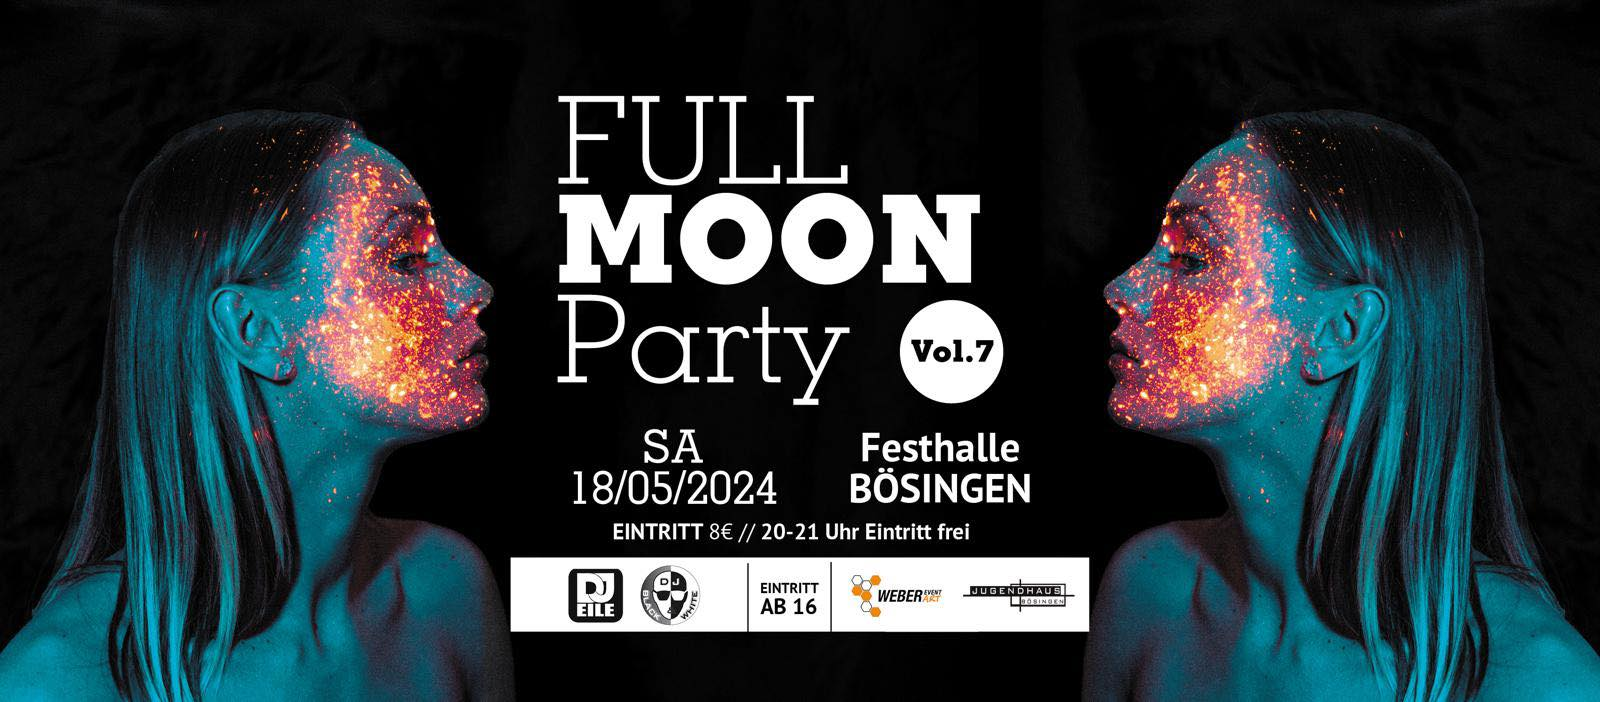
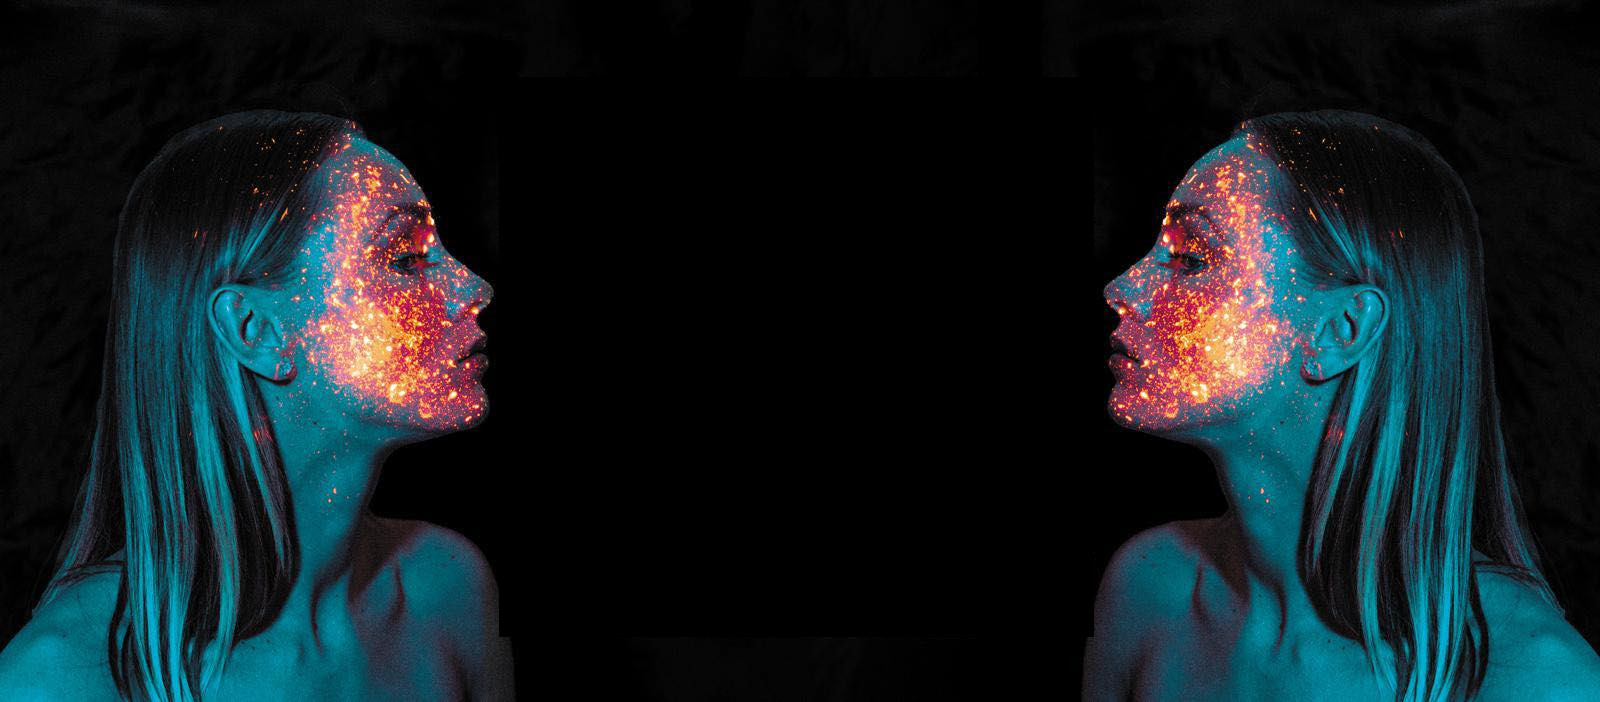
CSS optimization

diff --git a/themes/hugo-theme-cleanwhite/layouts/_default/single.html b/themes/hugo-theme-cleanwhite/layouts/_default/single.html
@@ -22,7 +22,6 @@
 							{{ end }}
 						</div>
 						<h1>{{ .Title }}</h1>
-						<h2 class="subheading">{{ .Params.subtitle }}</h2>
 						<span class="meta">
 							{{ if .Params.metadata }}
 							{{ range $index, $element := .Params.metadata }}
@@ -36,7 +35,7 @@
 
 							{{ .Date | dateFormat "02.01.2006" }}
 							{{ if .Params.organizer }}
-							| Veranstalter: {{ .Params.organizer }}
+							| {{ .Params.organizer }}
 							{{ else }}
 							| {{ .Site.Title }}
 							{{ end }}
@@ -74,29 +73,34 @@
 
 
 				{{ if or (.PrevInSection) (.NextInSection) }}
-				<hr>
 				<ul class="pager">
 					{{ if .PrevInSection }}
 					<li class="previous">
 						<a href="{{ .PrevInSection.RelPermalink }}" data-toggle="tooltip" data-placement="top"
 						title="{{ .PrevInSection.Title}}">&larr;
-						vorheriger Termin</a>
+						vorheriger</a>
 					</li>
 					{{ end }}
 					{{ if .NextInSection }}
 					<li class="next">
 						<a href="{{ .NextInSection.RelPermalink }}" data-toggle="tooltip" data-placement="top"
 						title="{{ .NextInSection.Title}}">nächster
-						Termin &rarr;</a>
+						&rarr;</a>
 					</li>
 					{{ end }}
 				</ul>
 				{{ end }}
+				<hr>
 
 
 
 					{{/* Event */}}
 					<h2 class="post-title" itemprop="name">{{ .Title }}</h2>
+					{{with .Params.subtitle }}
+						<h3 class="post-subtitle">
+							{{ . }}
+						</h3>
+					{{ end }}
 
 					{{/* … innerhalb Deines post_list.html … */}}
 					<time itemprop="startDate" datetime="{{ .Date.Format " 2006-01-02T15:04:05Z07:00" }}">
@@ -131,33 +135,10 @@
 
 					{{/* Ort, wenn Du ihn in Front-Matter pflegst */}}
 					{{ with .Params.location }}
-					<div itemprop="location" itemscope itemtype="http://schema.org/Place">
-						<span itemprop="name">{{ . }}</span>
-					</div>
+						<div itemprop="location" itemscope itemtype="http://schema.org/Place">
+							<span itemprop="name">{{ . }}</span>
+						</div>
 					{{ end }}
-
-					<div class="post-container flex-preview" itemprop="description">
-						{{/* Textbeschreibung */}}
-						<div class="post-image">
-							{{/* Bild als Event-Image, falls vorhanden */}}
-							{{ with .Params.featured_image }}
-							<img itemprop="image" class="featured-image" src="{{ . | relURL }}" alt="{{ $.Title }}"
-								loading="lazy">
-							{{ end }}
-						</div>
-
-						{{/* Textbeschreibung */}}
-						<div class="post-text">
-							{{ with .Description }}
-							{{ . }}
-							{{ else }}
-							{{ .Content }} …
-							{{ end }}
-						</div>
-					</div>
-
-
-
 					{{/* Veranstalter / Organizer */}}
 					{{ with .Params.organizer }}
 					<div itemprop="organizer" itemscope itemtype="http://schema.org/Organization">
@@ -165,6 +146,34 @@
 						Veranstalter: {{ . }}
 					</div>
 					{{ end }}
+
+					<div class="post-container flex-preview" itemprop="description">
+						{{/* Bild */}}
+						<div class="post-image">
+							{{/* Bild als Event-Image, falls vorhanden */}}
+							{{ with .Params.featured_image }}
+								<link rel="stylesheet" href="/css/hugo-easy-gallery.css" />
+								<div class="box" >
+								<figure class="media-figure" itemprop="associatedMedia" itemscope itemtype="http://schema.org/ImageObject">
+									<div class="img">
+										<img itemprop="image" class="featured-image" src="{{ . | relURL }}" alt="{{ $.Title }}" loading="lazy">
+									</div>
+									<a href="{{ . | relURL }}" itemprop="contentUrl"></a>
+								</figure>
+								</div>
+							{{ end }}
+						</div>
+						{{/* Textbeschreibung */}}
+						<div class="post-text">
+							{{ with .Description }}
+							{{ . }}
+							{{ else }}
+							{{ .Content }}
+							{{ end }}
+						</div>
+					</div>
+
+
 
 
 					{{ if or (.PrevInSection) (.NextInSection) }}

diff --git a/themes/hugo-theme-cleanwhite/layouts/partials/post_list.html b/themes/hugo-theme-cleanwhite/layouts/partials/post_list.html
@@ -20,6 +20,11 @@
 		{{/* Link zum Event */}}
 		<a href="{{ .Permalink }}" itemprop="url">
 			<h2 class="post-title" itemprop="name">{{ .Title }}</h2>
+			{{with .Params.subtitle }}
+				<h3 class="post-subtitle">
+					{{ . }}
+				</h3>
+			{{ end }}
 
 			{{/* … innerhalb Deines post_list.html … */}}
 			<time itemprop="startDate"
@@ -63,7 +68,7 @@
 		<div class="post-content-preview flex-preview" itemprop="description">
 			{{/* Bild als Event-Image, falls vorhanden */}}
 			{{ with .Params.featured_image }}
-			<img itemprop="image" class="featured-thumb" src="{{ . | relURL }}" alt="{{ $.Title }}" loading="lazy">
+				<img itemprop="image" class="featured-thumb" src="{{ . | relURL }}" alt="{{ $.Title }}" loading="lazy">
 			{{ end }}
 
 			{{/* Textbeschreibung */}}

diff --git a/themes/hugo-theme-cleanwhite/static/css/custom.css b/themes/hugo-theme-cleanwhite/static/css/custom.css
@@ -3319,9 +3319,9 @@ root{ --space-s:0.75rem; --space-m:1.5rem; --space-l:3rem; }
 
   .post-container img{
     display:block;
-    max-width:50% !important;;
+    max-width:80% !important;;
     height:auto;
-    margin:1.5em auto 1.6em auto
+    margin:1.5em auto 1.6em 0
 }
 
 
@@ -3358,4 +3358,12 @@ flex: 1 1 100%; /* Standardmäßig 100% Breite */
 	.post-container.flex-preview > * {
 		flex: 1 1 48%; /* Ab 768px: Container nebeneinander mit 48% Breite */
 	}
+}
+
+
+.intro-header h1 {
+	white-space: nowrap;
+	overflow: hidden;
+	text-overflow: ellipsis;
+	max-width: 100%;
 }

diff --git a/content/post/20250524_fullmoon2025.md b/content/post/20250524_fullmoon2025.md
@@ -7,12 +7,13 @@ date:  			2025-05-24
 location:		"Mehrzweckhalle Bösingen"
 organizer:      "Jugendhaus Bösingen"
 image:       	"/img/fullmoon-hero.jpg"
-featured_image: "/img/fullmoon-hero.jpg"
+featured_image: "/img/fullmoon-plakat.jpg"
 ---
 
 Es ist wieder soweit - am 14.05 geht unsere Full-Moon Party in die achte Runde!
 
 In der Bösinger Halle haben wir wieder einzigartige Specials für euch vorbereitet, die euch direkt an den thailändischen Strand zaubern. Tanzt mit uns durch das Paradies und lasst euch, wie den Rest der Halle durch Schwarzlicht und grelle Neonfarben zum Leuchten bringen!
 
-![FULL MOON Party 2024](https://scontent-fra3-1.xx.fbcdn.net/v/t39.30808-6/486575492_1075736257915112_4017841889120349136_n.jpg?stp=dst-jpg_s960x960_tt6&_nc_cat=108&ccb=1-7&_nc_sid=cc71e4&_nc_ohc=FLUqzN4OhSgQ7kNvwEwJ5Mq&_nc_oc=Adm3WDNbagAWKXeoXsLtglTol6M3TERQ0utrI5budbpHgsLEYwok7teiOesPNiooajs&_nc_zt=23&_nc_ht=scontent-fra3-1.xx&_nc_gid=-_-sbgzwQWU9uQqdnGZqPg&oh=00_AfGmMXrZJHs2-gQXsOnlBUP_UuRSySV_wuKjemrj2deONQ&oe=6804A799)
+
+![FULL MOON Party 2025](/img/fullmoon-plakat.jpg)
 

diff --git a/content/post/20250426_mv_blasmusikabend.md b/content/post/20250426_mv_blasmusikabend.md
@@ -1,7 +1,7 @@
 ---
 layout:			post
 title:			'Blasmusikabend mit den "Original Schwarzwälder Musikanten" '
-subtitle:		"26.4.2025 Mehrzweckhalle Bösingen"
+subtitle:		""
 location:		"Mehrzweckhalle Bösingen"
 PublishDate: 	2025-04-15
 date:  			2025-04-26 20:00:00
@@ -13,15 +13,12 @@ reward: "true"
 ---
 
 
-
-
 {{< figure
-		src="https://www.mvhb.de/wp-content/uploads/2025/02/e4a13ec0-8684-4a39-9a4b-b2abf9f4224a-725x1024.jpeg"
-    	alt="Original Schwarzwälder Musikanten"
-		class="media-figure"
+        src="https://www.mvhb.de/wp-content/uploads/2025/02/e4a13ec0-8684-4a39-9a4b-b2abf9f4224a-725x1024.jpeg"
+        alt="Original Schwarzwälder Musikanten"
+        class="media-figure"
+        link="https://www.mvhb.de/wp-content/uploads/2025/02/e4a13ec0-8684-4a39-9a4b-b2abf9f4224a-725x1024.jpeg"
 >}}
-
-
 
 [Details auf der Homepage des Musikvereins](https://www.mvhb.de/blasmusik-vom-feinsten-am-26-04-2025/)
 
